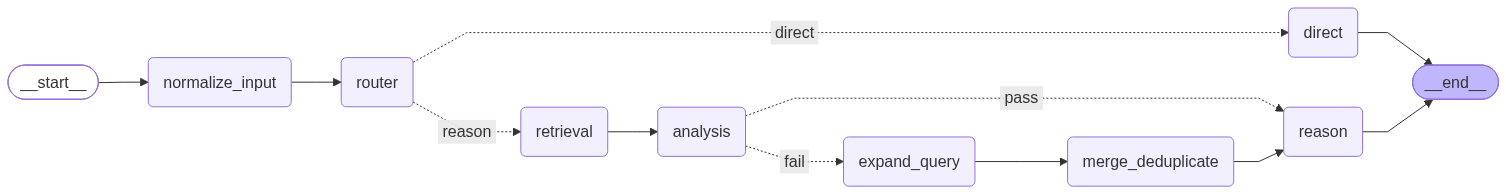
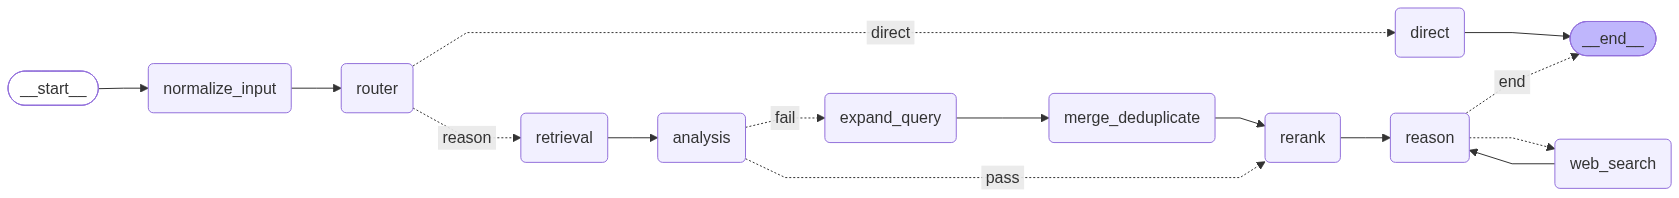
Attach bounded ReAct web search loop with tavily search node

diff --git a/tests/test_graph.py b/tests/test_graph.py
@@ -1,4 +1,5 @@
 import unittest
+from types import SimpleNamespace
 from unittest.mock import MagicMock, patch
 
 from agents.analysis import compute_retrieval_diagnostics
@@ -7,9 +8,12 @@ from agents.nodes.analysis import make_analysis_node
 from agents.nodes.expand_query import make_expand_query_node
 from agents.nodes.input import make_normalize_input_node
 from agents.nodes.merge_deduplicate import make_merge_deduplicate_node
+from agents.nodes.reasoning import make_reason_node
 from agents.nodes.rerank import make_rerank_node
 from agents.nodes.retrieval import make_retrieval_node
+from agents.nodes.web_search import make_web_search_node
 from agents.runtime import AgentRuntime
+from agents.state import MAX_WEB_SEARCH_ITERATIONS
 
 
 class RetrievalDiagnosticsTests(unittest.TestCase):
@@ -90,6 +94,7 @@ class GraphTopologyTests(unittest.TestCase):
                 "merge_deduplicate",
                 "rerank",
                 "reason",
+                "web_search",
             }
             <= nodes
         )
@@ -103,10 +108,78 @@ class GraphTopologyTests(unittest.TestCase):
                 ("expand_query", "merge_deduplicate"),
                 ("merge_deduplicate", "rerank"),
                 ("rerank", "reason"),
+                ("reason", "web_search"),
                 ("reason", "__end__"),
+                ("web_search", "reason"),
             }
             <= edges
         )
+
+    def test_web_search_node_records_results_and_increments_iteration(self) -> None:
+        runtime = AgentRuntime(
+            model_name="test-model",
+            embedding_model="test-embedding",
+            vllm_base_url="http://vllm.test/v1",
+            rerank_model="test-reranker",
+            llm_factory=MagicMock(),
+            web_search=lambda query: f"result for {query}",
+        )
+
+        result = make_web_search_node(runtime)(
+            {
+                "prompt": "question",
+                "response": "",
+                "web_search_query": "latest research",
+                "web_search_iterations": 2,
+                "web_search_results": ["previous result"],
+            }
+        )
+
+        self.assertEqual(result["web_search_iterations"], MAX_WEB_SEARCH_ITERATIONS)
+        self.assertEqual(result["web_search_query"], "")
+        self.assertEqual(len(result["web_search_results"]), 2)
+        self.assertIn("latest research", result["web_search_results"][-1])
+
+
+class ReasoningWebSearchTests(unittest.TestCase):
+    def setUp(self) -> None:
+        self.llm = MagicMock()
+        self.bound_llm = MagicMock()
+        self.llm.bind_tools.return_value = self.bound_llm
+        self.runtime = AgentRuntime(
+            model_name="test-model",
+            embedding_model="test-embedding",
+            vllm_base_url="http://vllm.test/v1",
+            rerank_model="test-reranker",
+            llm_factory=lambda _: self.llm,
+        )
+
+    def test_reasoning_returns_web_search_request_from_tool_call(self) -> None:
+        self.bound_llm.return_value = SimpleNamespace(
+            content="",
+            tool_calls=[{"name": "web_search", "args": {"query": "current findings"}}],
+        )
+
+        result = make_reason_node(self.runtime)({"prompt": "question", "response": ""})
+
+        self.assertEqual(
+            result, {"response": "", "web_search_query": "current findings"}
+        )
+        self.llm.bind_tools.assert_called_once()
+
+    def test_reasoning_disables_tool_calls_after_three_searches(self) -> None:
+        self.llm.return_value = SimpleNamespace(content="final answer", tool_calls=[])
+
+        result = make_reason_node(self.runtime)(
+            {
+                "prompt": "question",
+                "response": "",
+                "web_search_iterations": MAX_WEB_SEARCH_ITERATIONS,
+            }
+        )
+
+        self.assertEqual(result, {"response": "final answer", "web_search_query": ""})
+        self.llm.bind_tools.assert_not_called()
 
 
 class QueryExpansionTests(unittest.TestCase):

diff --git a/agents/nodes/reasoning.py b/agents/nodes/reasoning.py
@@ -1,12 +1,14 @@
 import logging
 
 from langchain_core.prompts import ChatPromptTemplate
+from langchain_core.tools import tool
 
 from agents.runtime import AgentRuntime
 from agents.state import (
     AgentState,
     AgentStateUpdate,
     EMPTY_PROMPT_RESPONSE,
+    MAX_WEB_SEARCH_ITERATIONS,
     MODEL_FAILURE_RESPONSE,
     NO_RETRIEVED_CONTEXT,
     RetrievalDiagnostics,
@@ -25,16 +27,24 @@ PROMPT_TEMPLATE = ChatPromptTemplate.from_messages(
             "user question. Use the diagnostics to judge whether the retrieved "
             "context provides enough information to answer confidently. "
             "If coverage is 'insufficient' or 'partial', say so explicitly and "
-            "supplement with your own knowledge where appropriate.",
+            "supplement with your own knowledge where appropriate. You may call "
+            "web_search when current or missing information requires verification. "
+            "When web-search results are provided, use them to produce a final "
+            "answer with source URLs.",
         ),
         (
             "human",
             "Question:\n{question}\n\n"
             "{diagnostics_summary}\n\n"
-            "Retrieved context:\n{context}\n\nAnswer:",
+            "Retrieved context:\n{context}\n\n"
+            "Web-search results:\n{web_search_results}\n\nAnswer:",
         ),
     ]
 )
+
+
+def format_web_search_results(results: list[str]) -> str:
+    return "\n\n".join(results) if results else "No web-search results yet."
 
 
 def format_diagnostics(diagnostics: RetrievalDiagnostics | None) -> str:
@@ -64,15 +74,21 @@ def format_document_chunks(document_chunks: list[str]) -> str:
 
 
 def make_reason_node(runtime: AgentRuntime):
+    @tool
+    def web_search(query: str) -> str:
+        """Search the public web for current or missing information."""
+        return "Search request submitted."
+
     def reason_node(state: AgentState) -> AgentStateUpdate:
         prompt = state["prompt"].strip()
         if not prompt:
             return {"prompt": "", "response": EMPTY_PROMPT_RESPONSE}
 
         try:
-            response = (
-                PROMPT_TEMPLATE | runtime.llm_factory(runtime.model_name)
-            ).invoke(
+            llm = runtime.llm_factory(runtime.model_name)
+            if state.get("web_search_iterations", 0) < MAX_WEB_SEARCH_ITERATIONS:
+                llm = llm.bind_tools([web_search])
+            response = (PROMPT_TEMPLATE | llm).invoke(
                 {
                     "question": prompt,
                     "context": format_document_chunks(
@@ -81,12 +97,22 @@ def make_reason_node(runtime: AgentRuntime):
                     "diagnostics_summary": format_diagnostics(
                         state.get("retrieval_diagnostics")
                     ),
+                    "web_search_results": format_web_search_results(
+                        state.get("web_search_results", [])
+                    ),
                 }
             )
         except Exception:
             logger.exception("Reasoning model invocation failed.")
             return {"response": MODEL_FAILURE_RESPONSE}
 
-        return {"response": str(response.content)}
+        tool_calls = getattr(response, "tool_calls", [])
+        for tool_call in tool_calls:
+            if tool_call.get("name") == "web_search":
+                query = tool_call.get("args", {}).get("query", "").strip()
+                if query:
+                    return {"response": "", "web_search_query": query}
+
+        return {"response": str(response.content), "web_search_query": ""}
 
     return reason_node

diff --git a/agents/graph.py b/agents/graph.py
@@ -8,8 +8,18 @@ from agents.nodes.reasoning import make_reason_node
 from agents.nodes.rerank import make_rerank_node
 from agents.nodes.retrieval import make_retrieval_node
 from agents.nodes.routing import make_direct_node, make_router_node, select_route
+from agents.nodes.web_search import make_web_search_node
 from agents.runtime import AgentRuntime, build_default_runtime
-from agents.state import AgentState
+from agents.state import AgentState, MAX_WEB_SEARCH_ITERATIONS
+
+
+def select_reasoning_next_step(state: AgentState) -> str:
+    if (
+        state.get("web_search_query")
+        and state.get("web_search_iterations", 0) < MAX_WEB_SEARCH_ITERATIONS
+    ):
+        return "web_search"
+    return "end"
 
 
 def build_graph(runtime: AgentRuntime):
@@ -28,6 +38,7 @@ def build_graph(runtime: AgentRuntime):
     graph.add_node("merge_deduplicate", make_merge_deduplicate_node(runtime))
     graph.add_node("rerank", make_rerank_node(runtime))
     graph.add_node("reason", make_reason_node(runtime))
+    graph.add_node("web_search", make_web_search_node(runtime))
 
     graph.add_edge(START, "normalize_input")
     graph.add_edge("normalize_input", "router")
@@ -46,7 +57,12 @@ def build_graph(runtime: AgentRuntime):
     graph.add_edge("expand_query", "merge_deduplicate")
     graph.add_edge("merge_deduplicate", "rerank")
     graph.add_edge("rerank", "reason")
-    graph.add_edge("reason", END)
+    graph.add_conditional_edges(
+        "reason",
+        select_reasoning_next_step,
+        {"web_search": "web_search", "end": END},
+    )
+    graph.add_edge("web_search", "reason")
 
     return graph.compile()
 

diff --git a/agents/web_search.py b/agents/web_search.py
@@ -1,0 +1,46 @@
+import json
+import logging
+import os
+from urllib.error import URLError
+from urllib.request import Request, urlopen
+
+logger = logging.getLogger(__name__)
+
+TAVILY_SEARCH_URL = "https://api.tavily.com/search"
+
+
+def search_web(query: str) -> str:
+    """Search the web with Tavily and return concise, citable text results."""
+    api_key = os.getenv("TAVILY_API_KEY")
+    if not api_key:
+        return "Web search is unavailable because TAVILY_API_KEY is not configured."
+
+    request = Request(
+        TAVILY_SEARCH_URL,
+        data=json.dumps(
+            {
+                "api_key": api_key,
+                "query": query,
+                "search_depth": "basic",
+                "max_results": 5,
+            }
+        ).encode(),
+        headers={"Content-Type": "application/json"},
+        method="POST",
+    )
+
+    try:
+        with urlopen(request, timeout=15) as response:  # noqa: S310
+            results = json.load(response).get("results", [])
+    except URLError, TimeoutError, ValueError:
+        logger.exception("Web search failed.")
+        return "Web search failed; continue using the available context."
+
+    if not results:
+        return "Web search returned no results."
+
+    return "\n\n".join(
+        f"[{result.get('title', 'Untitled')}]({result.get('url', '')})\n"
+        f"{result.get('content', '')}"
+        for result in results
+    )

diff --git a/agents/nodes/web_search.py b/agents/nodes/web_search.py
@@ -1,0 +1,29 @@
+import logging
+
+from agents.runtime import AgentRuntime
+from agents.state import AgentState, AgentStateUpdate
+
+logger = logging.getLogger(__name__)
+
+
+def make_web_search_node(runtime: AgentRuntime):
+    def web_search_node(state: AgentState) -> AgentStateUpdate:
+        query = state.get("web_search_query", "").strip()
+        results = list(state.get("web_search_results", []))
+        iterations = state.get("web_search_iterations", 0)
+        if not query:
+            return {"web_search_results": results}
+
+        try:
+            result = runtime.web_search(query)
+        except Exception:
+            logger.exception("Web search tool invocation failed.")
+            result = "Web search failed; continue using the available context."
+
+        return {
+            "web_search_query": "",
+            "web_search_results": results + [f"Search query: {query}\n{result}"],
+            "web_search_iterations": iterations + 1,
+        }
+
+    return web_search_node

diff --git a/agents/state.py b/agents/state.py
@@ -11,6 +11,7 @@ NO_RETRIEVED_CONTEXT = "No relevant context was retrieved from the knowledge bas
 EMPTY_PROMPT_RESPONSE = "Please provide a prompt."
 MODEL_FAILURE_RESPONSE = "Model invocation failed. Please try again."
 SIMILARITY_THRESHOLD = 0.50
+MAX_WEB_SEARCH_ITERATIONS = 3
 
 
 @dataclass(frozen=True)
@@ -47,6 +48,9 @@ class AgentState(TypedDict):
     final_document_chunks: NotRequired[list[str]]
     retrieval_diagnostics: NotRequired[RetrievalDiagnostics]
     analysis_verdict: NotRequired[AnalysisVerdict]
+    web_search_query: NotRequired[str]
+    web_search_results: NotRequired[list[str]]
+    web_search_iterations: NotRequired[int]
 
 
 class AgentStateUpdate(TypedDict, total=False):
@@ -59,3 +63,6 @@ class AgentStateUpdate(TypedDict, total=False):
     final_document_chunks: list[str]
     retrieval_diagnostics: RetrievalDiagnostics
     analysis_verdict: AnalysisVerdict
+    web_search_query: str
+    web_search_results: list[str]
+    web_search_iterations: int

diff --git a/agents/runtime.py b/agents/runtime.py
@@ -4,6 +4,7 @@ from dataclasses import dataclass
 from langchain_openai import ChatOpenAI
 
 from app.config import get_settings
+from agents.web_search import search_web
 
 
 @dataclass(frozen=True)
@@ -13,6 +14,7 @@ class AgentRuntime:
     vllm_base_url: str
     rerank_model: str
     llm_factory: Callable[[str], ChatOpenAI]
+    web_search: Callable[[str], str] = search_web
 
 
 def build_default_runtime() -> AgentRuntime:
@@ -23,4 +25,5 @@ def build_default_runtime() -> AgentRuntime:
         vllm_base_url=settings.vllm_base_url,
         rerank_model=settings.vllm_rerank_model,
         llm_factory=ChatOpenAI,
+        web_search=search_web,
     )

diff --git a/README.md b/README.md
@@ -28,11 +28,14 @@ This project contains:
 The router chooses either `direct` -> `END` or `retrieval` -> `analysis`.
 Analysis computes deterministic score statistics, then asks an LLM for a
 structured `pass` or `fail` assessment using the prompt, retrieved context, and
-statistics. `pass` continues to `rerank` -> `reason` -> `END`; `fail` expands
-the query, retrieves additional chunks, merges and deduplicates them, then
-reranks the candidates. The vLLM reranker selects the five highest-ranked chunks
-for reasoning. Nodes return only the state fields they update, allowing future
-branches to add state without overwriting unrelated values.
+statistics. `pass` continues to `rerank` -> `reason`; `fail` expands the query,
+retrieves additional chunks, merges and deduplicates them, then reranks the
+candidates. The vLLM reranker selects the five highest-ranked chunks
+for reasoning. The reasoning node can call a Tavily-backed `web_search` node,
+then return to reasoning with the result. This ReAct loop is capped at three web
+searches before the model must produce its final response. Nodes return only the
+state fields they update, allowing future branches to add state without
+overwriting unrelated values.
 
 ### Environment variables
 
@@ -40,6 +43,12 @@ Set your OpenAI API key before invoking the agent:
 
 ```bash
 set OPENAI_API_KEY=your_api_key_here
+```
+
+To enable web search, configure a Tavily API key:
+
+```bash
+set TAVILY_API_KEY=your_api_key_here
 ```
 
 Optional model override:
